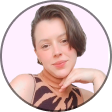
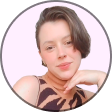
changes

Changed region(s): [[0.0804, 0.0268, 0.9107, 1.0], [0.9107, 0.6429, 0.9643, 0.6964], [0.2411, 0.8304, 0.2679, 0.8571]]

diff --git a/style.css b/style.css
@@ -5,16 +5,6 @@
 }
 
 :root {
-  --text-color: #ffffff;
-  --bg-url: url(./assets/bg-mobile.jpg);
-  --stroke-color: rgba(255, 255, 255, 0.5);
-  --surface-color: rgba(255, 255, 255, 0.1);
-  --surface-color-hover: rgba(255, 255, 255, 0.05);
-  --highlight-color: rgba(255, 255, 255, 0.2);
-  --switch-bg-url: url(./assets/moon-stars.svg);
-}
-
-.ligth {
   --text-color: #000000;
   --bg-url: url(./assets/bg-mobile-light.jpg);
   --stroke-color: rgba(0, 0, 0, 0.5);
@@ -22,6 +12,16 @@
   --surface-color-hover: rgba(0, 0, 0, 0.02);
   --highlight-color: rgba(0, 0, 0, 0.1);
   --switch-bg-url: url(./assets/sun.svg);
+}
+
+.dark {
+  --text-color: #ffffff;
+  --bg-url: url(./assets/bg-mobile.jpg);
+  --stroke-color: rgba(255, 255, 255, 0.5);
+  --surface-color: rgba(255, 255, 255, 0.1);
+  --surface-color-hover: rgba(255, 255, 255, 0.05);
+  --highlight-color: rgba(255, 255, 255, 0.2);
+  --switch-bg-url: url(./assets/moon-stars.svg);
 }
 
 body {
@@ -73,7 +73,7 @@ body * {
   transform: translateY(-50%);
 }
 
-.ligth #switch button {
+.dark #switch button {
   right: 0;
   left: initial;
 }

diff --git a/index.html b/index.html
@@ -1,5 +1,5 @@
 <!DOCTYPE html>
-<html lang="pt-br">
+<html lang="pt-br" class="dark">
 
 <head>
   <meta charset="UTF-8">
@@ -13,14 +13,14 @@
   <link href="https://fonts.googleapis.com/css2?family=Inter:wght@400;500&display=swap" rel="stylesheet">
 </head>
 
-<body class="ligth">
+<body>
   <div id="container">
     <div id="profile">
-      <img src="./assets/avatar.png" alt="Foto da Ana Paula Benjamin">
+      <img src="./assets/avatar.png" alt="Foto do rosto da Ana Paula Benjamin">
       <p>@anapaulabenjamin</p>
     </div>
 
-    <div id="switch">
+    <div id="switch" onclick="toggleMode()">
       <button></button>
       <span></span>
     </div>
@@ -52,6 +52,7 @@
 
   <script type="module" src="https://unpkg.com/ionicons@7.1.0/dist/ionicons/ionicons.esm.js"></script>
   <script nomodule src="https://unpkg.com/ionicons@7.1.0/dist/ionicons/ionicons.js"></script>
+  <script src="./script.js"></script>
 </body>
 
 </html>

diff --git a/script.js b/script.js
@@ -1,0 +1,12 @@
+function toggleMode() {
+  const html = document.documentElement;
+  html.classList.toggle('dark');
+
+  const img = document.querySelector('#profile img');
+
+  if (html.classList.contains('dark')) {
+    img.setAttribute('src', './assets/avatar.png');
+  } else {
+    img.setAttribute('src', './assets/avatar-light.png');
+  }
+}

diff --git a/README.md b/README.md
@@ -1,0 +1,48 @@
+<h1 align="center"> DevLinks </h1>
+
+<p align="center">
+Programa exclusivo e gratuito, promovido pela Rocketseat para ensino de tecnologias WEB. <br/>
+<a href="https://lp.rocketseat.com.br/devlinks/inscricao?utm_source=github&utm_medium=descricao&utm_campaign=capture-devlinks&utm_term=organic&utm_content=descricao-github-mayk-brito">Estude esse projeto em formato de vídeo clicando aqui.</a>
+</p>
+
+<p align="center">
+  <a href="#-tecnologias">Tecnologias</a>&nbsp;&nbsp;&nbsp;|&nbsp;&nbsp;&nbsp;
+  <a href="#-projeto">Projeto</a>&nbsp;&nbsp;&nbsp;|&nbsp;&nbsp;&nbsp;
+  <a href="#-layout">Layout</a>&nbsp;&nbsp;&nbsp;|&nbsp;&nbsp;&nbsp;
+  <a href="#memo-licença">Licença</a>
+</p>
+
+<p align="center">
+  <img alt="License" src="https://img.shields.io/static/v1?label=license&message=MIT&color=49AA26&labelColor=000000">
+</p>
+
+<br>
+
+<p align="center">
+  <img alt="projeto DevLinks" src=".github/preview.jpg" width="100%">
+</p>
+
+## 🚀 Tecnologias
+
+Esse projeto foi desenvolvido com as seguintes tecnologias:
+
+- HTML e CSS
+- JavaScript
+- Git e Github
+- Figma
+
+## 💻 Projeto
+
+O DevLinks é um agregador de links para usar como cartão de visitas online.
+
+- [Acesse o projeto finalizado, online](https://maykbrito.github.io/devlinks)
+
+- [Assistir aulas](https://lp.rocketseat.com.br/devlinks/inscricao?utm_source=github&utm_medium=descricao&utm_campaign=capture-devlinks&utm_term=organic&utm_content=descricao-github-mayk-brito)
+
+## 🔖 Layout
+
+Você pode visualizar o layout do projeto através [DESSE LINK](https://www.figma.com/community/file/1187422022288947321). É necessário ter conta no [Figma](https://figma.com) para acessá-lo.
+
+## :memo: Licença
+
+Esse projeto está sob a licença MIT.
